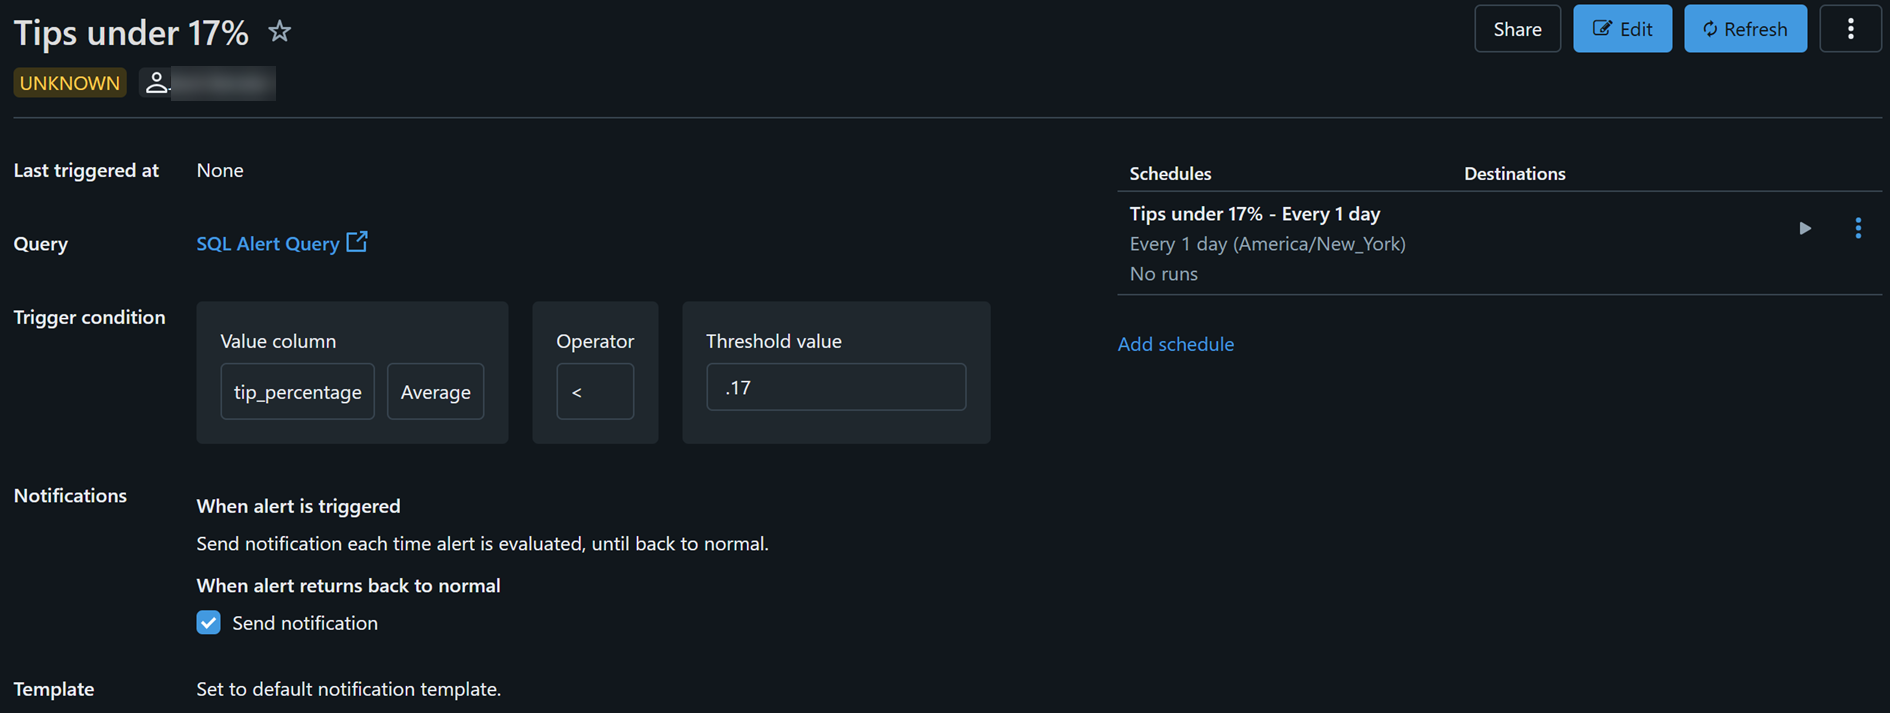
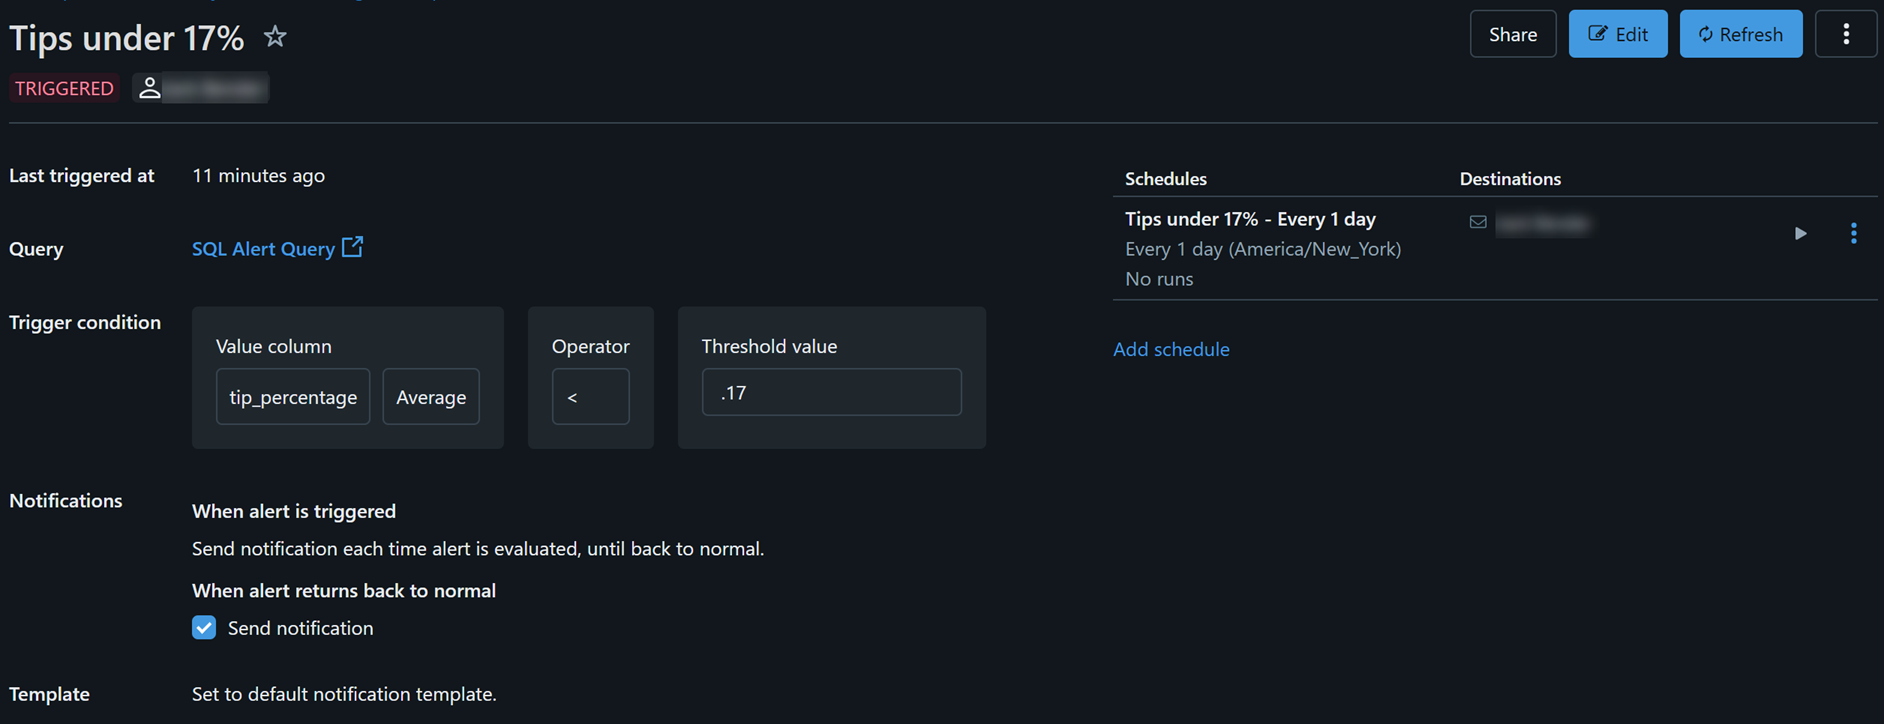
updated walkthroughs/15_dwh_sql_alerts.md

diff --git a/walkthroughs/15_dwh_sql_alerts.md b/walkthroughs/15_dwh_sql_alerts.md
@@ -2,7 +2,7 @@
 
 Databricks SQL Alerts enable the execution of SQL queries, the evaluation of specified conditions, and the dispatch of notifications when those conditions are satisfied.
 
-For this exercise, we will create a SQL Query and create an alert to evaluate conditions. We will also setup a schedule for our alert to be evaluated and send notifications.
+For this exercise, we will create a SQL Query and an alert to evaluate conditions. We will also setup a schedule for our alert to be evaluated and send notifications when our criteria is met.
 
 Because of the nature of our data, we are going to setup a notification if the average tip amount for a day is less then 17%.  We will hard code a date to see that our query gets triggered.  Then we will modify it for the schedule.
 
@@ -38,9 +38,9 @@ Because of the nature of our data, we are going to setup a notification if the a
     ![picture alt](/imagery/dwh_15_02_trigger_conditions.png)
     <BR>
 
-7. Under Notifications, set the following values:
-    a. Send notification = each time alert is evaluated.
-    b. Check the Send notification box
+7. Under Notifications, set the following values:<BR>
+    a. Send notification = each time alert is evaluated.<BR>
+    b. Check the Send notification box<BR>
 
 8. Leave 'Use default template' selected under Template.
 
@@ -49,38 +49,44 @@ Because of the nature of our data, we are going to setup a notification if the a
     ![picture alt](/imagery/dwh_15_03_save.png)
     <BR>
 
+10.  Back at the Tips under 17% summary window, click the 'Refresh' button in the top right to manually execute the alert.  When finished, your alert should have 'TRIGGERED' under the title.
+    <BR> &nbsp;<BR>
+    ![picture alt](/imagery/dwh_15_08_refresh.png)
+    <BR>
+
 <BR>
 
 ## Step 3 - Schedule the SQL Alert
 We will now modify our query so it will evaluate the previous day's records and schedule it to run daily.
 
-10.  Click on 'Queries' in the left navigation bar and select the 'SQL Alert query' and ask the Databricks Assistant to 'change the where clause to yesterday'.  Accept the results and save the query.  <BR>
+11.  Click on 'Queries' in the left navigation bar and select the 'SQL Alert query' and ask the Databricks Assistant to 'change the where clause to today minus one day'.  Accept the results and save the query.  <BR>
     NOTE: This query will not return any rows as we only have data for the first four months of 2024.  However, this showcases the dynamic query needed to run on a daily basis.
 
-11. Click on 'Alerts' in the left navigation bar and select the 'Tips under 17%' alert.
+12. Click on 'Alerts' in the left navigation bar and select the 'Tips under 17%' alert.
 
-12. In the 'Tips under 17%' window, click Add schedule in the middle right.
+13. In the 'Tips under 17%' window, click Add schedule in the middle right.
 
-13. In the the settings tab of the Add schedule window, set it is Every Day at 05:00.  Set the Timezone to your Timezone.  When finished, you screen should look like the screenshot below. 
+14. In the the settings tab of the Add schedule window, set it is Every Day at 05:00.  Set the Timezone to your Timezone.  When finished, you screen should look like the screenshot below. 
     <BR> &nbsp;<BR>
     ![picture alt](/imagery/dwh_15_04_add_schedule.png)
     <BR>
-14. In the Destinations tab, add yourself to the destinations and click 'Create'
+15. In the Destinations tab, add yourself to the Destination listing and click 'Create'
 
-15.  When finished, your schedule is added to the Alert and should look like the screenshot below.
+16.  When finished, your schedule is added to the Alert and should look like the screenshot below.
     <BR> &nbsp;<BR>
     ![picture alt](/imagery/dwh_15_05_alert.png)
     <BR>
 
-16.  To test you schedule, click the 'arrow/Run one' to run the schedule.
+17.  To test you schedule, click the 'arrow/Run one' to run the schedule.
     <BR> &nbsp;<BR>
     ![picture alt](/imagery/dwh_15_06_run.png)
     <BR>
     
-17. To see the result of your schedule, you may need to refresh your screen or click on another item in the left navigation bar and the click back on 'Alerts' in the left navigation bar and select the 'Tips under 17%' alert.  Your schedule section should look like the screen shot below.
+18. To see the result of your schedule, you may need to refresh your screen or click on another item in the left navigation bar and the click back on 'Alerts' in the left navigation bar and select the 'Tips under 17%' alert.  Your schedule section should look like the screen shot below.
     <BR> &nbsp;<BR>
     ![picture alt](/imagery/dwh_15_07_schedule.png)
     <BR>
+    NOTE: The criteria was not met when the schedule was executed, so no notification is sent as there is no data for yesterday.
 
 <B>You have now completed this walkthrough.</b>  
 
